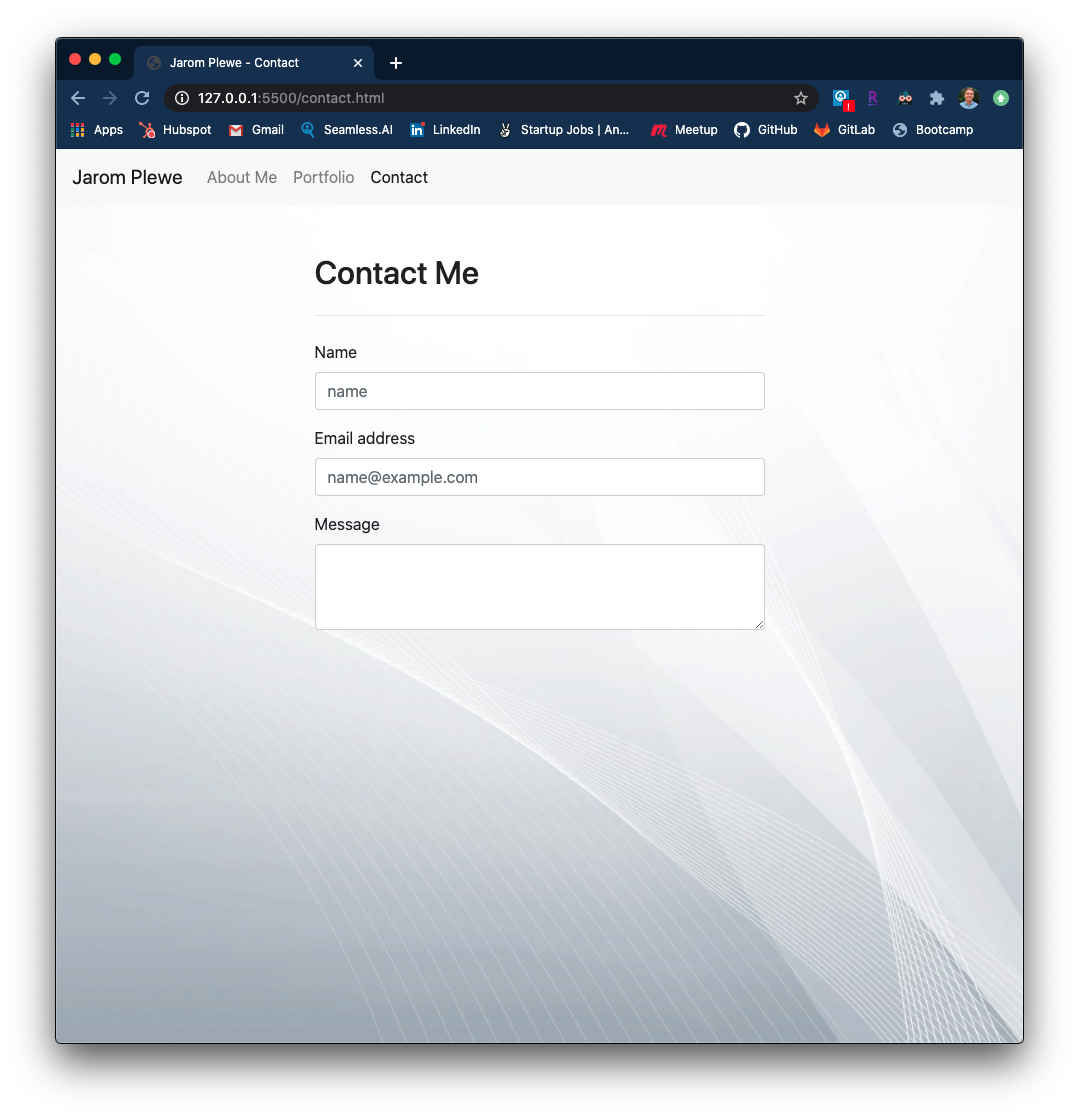
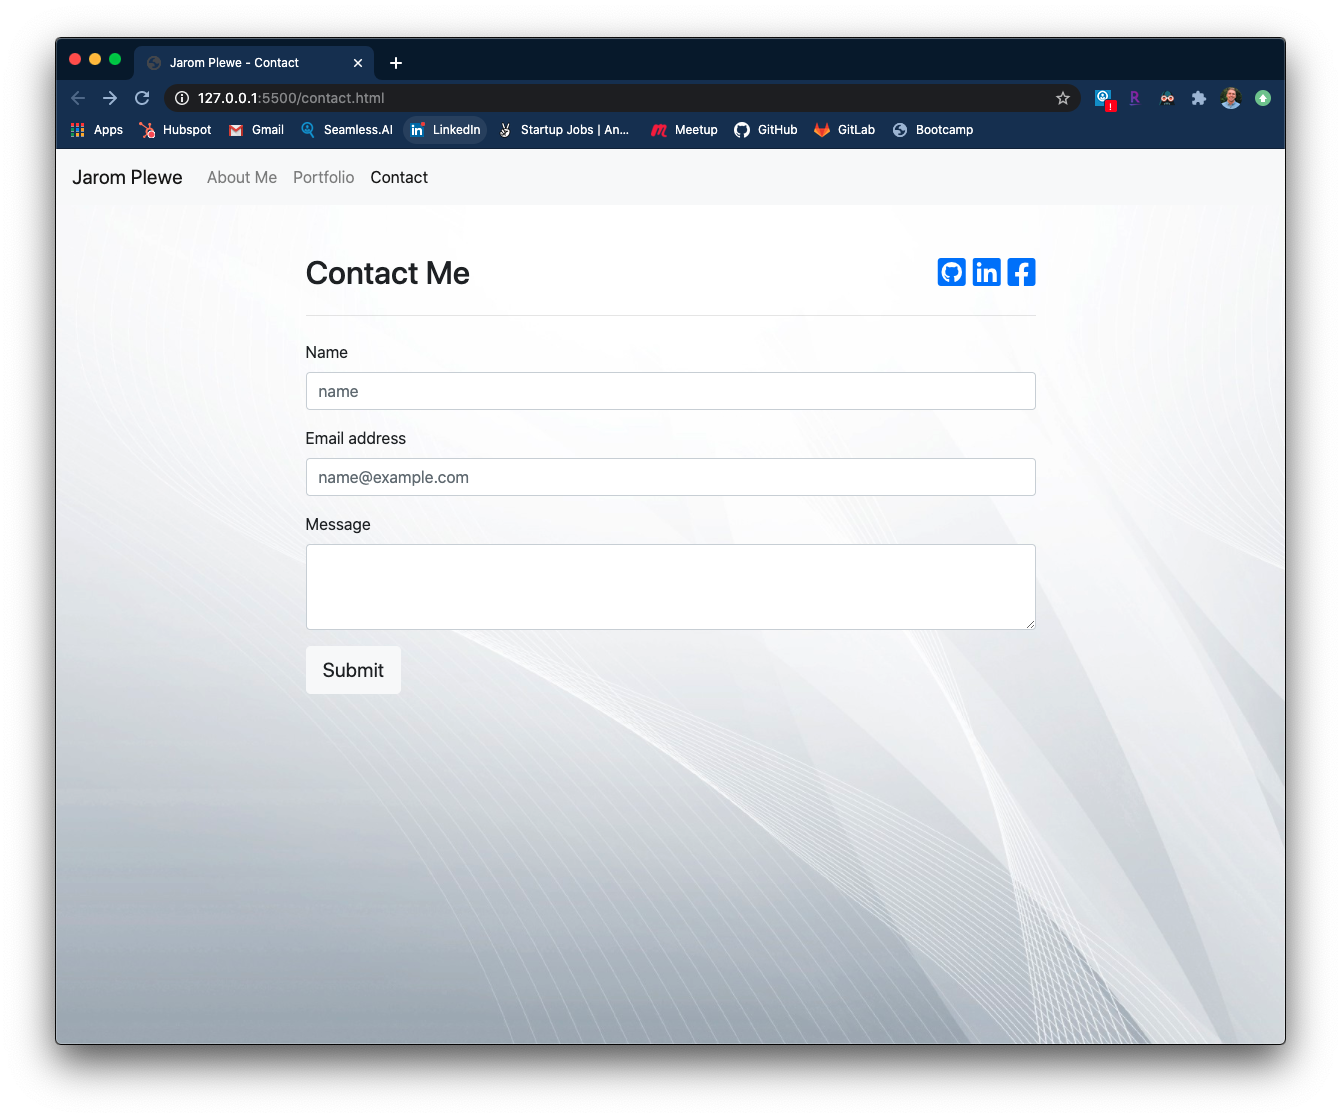
added links to social media, updated screenshots for contact page

diff --git a/contact.html b/contact.html
@@ -50,9 +50,15 @@
             Contact Me
           </div>
           <div class="float-right">
-            <i class="fab fa-github-square"></i>
-            <i class="fab fa-linkedin"></i>
-            <i class="fab fa-facebook-square"></i>
+            <a href="https://github.com/jaromplewe" target="blank">
+              <i class="fab fa-github-square"></i>
+            </a>
+            <a href="https://www.linkedin.com/in/jarom-plewe-610530145/" target="blank">
+              <i class="fab fa-linkedin"></i>
+            </a>
+            <a href="https://www.facebook.com/profile.php?id=100005651836589&ref=bookmarks" target="blank">
+              <i class="fab fa-facebook-square"></i>
+            </a>
           </div>
         </h2>
       </div>
